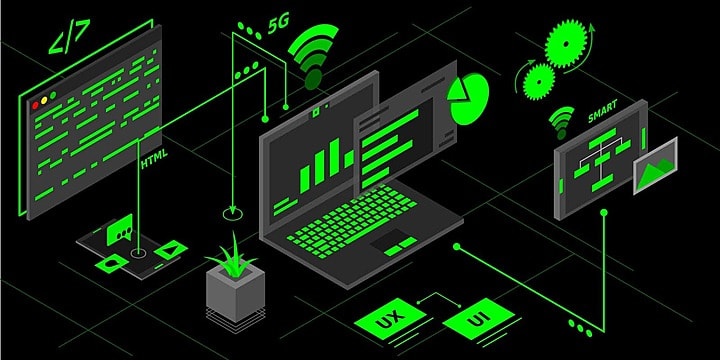
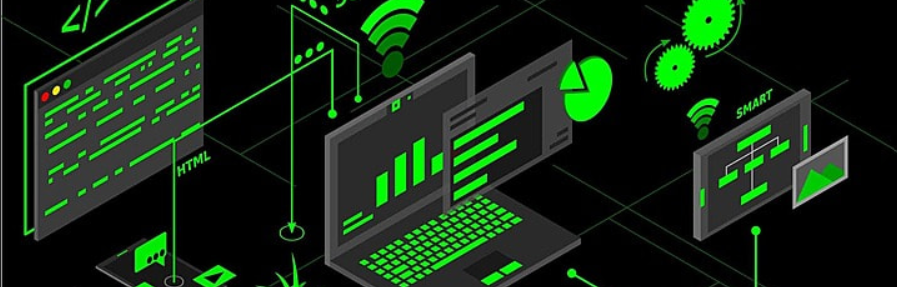
readme updated

diff --git a/README.md b/README.md
@@ -1,65 +1,126 @@
 # IoT Streaming Data Warehouse
 
-![Internet of Things illustration](docs/images/iot-streaming-data-warehouse.png)
+<p align="center">
+  <img src="https://cdn.jsdelivr.net/gh/devicons/devicon/icons/python/python-original.svg" alt="Python" height="42" />
+  <img src="https://cdn.jsdelivr.net/gh/devicons/devicon/icons/amazonwebservices/amazonwebservices-original-wordmark.svg" alt="AWS: SAM, Lambda, SQS, DynamoDB, EventBridge" height="42" />
+  <img src="https://www.vectorlogo.zone/logos/getdbt/getdbt-icon.svg" alt="dbt" height="42" />
+  <img src="https://duckdb.org/images/DuckDB-Logo.svg" alt="DuckDB and MotherDuck" height="42" />
+</p>
 
-An end-to-end reference pipeline for generating industrial IoT telemetry, validating and enriching it, maintaining an operational device-state view, and loading analytics-ready events into MotherDuck.
+<p align="center"><strong>Python</strong> &nbsp;•&nbsp; <strong>AWS SAM</strong> &nbsp;•&nbsp; <strong>Lambda</strong> &nbsp;•&nbsp; <strong>Amazon SQS</strong> &nbsp;•&nbsp; <strong>DynamoDB</strong> &nbsp;•&nbsp; <strong>MotherDuck</strong> &nbsp;•&nbsp; <strong>dbt</strong></p>
 
-The project is deliberately organized by pipeline responsibility so its components can be run locally during development and deployed independently as the AWS infrastructure is completed.
+![IoT streaming data warehouse architecture](docs/images/iot-streaming-data-warehouse.png)
+
+An event-driven pipeline that simulates industrial IoT telemetry, processes it in AWS, maintains a real-time device-state view, and creates analytics-ready Bronze, Silver, and Gold datasets in MotherDuck.
+
+## Contents
+
+- [Architecture](#architecture)
+- [Pipeline walkthrough](#pipeline-walkthrough)
+- [Repository layout](#repository-layout)
+- [Setup and deployment](#setup-and-deployment)
+- [Operating the pipeline](#operating-the-pipeline)
+- [Data model and transformations](#data-model-and-transformations)
+- [Reliability and security](#reliability-and-security)
+- [Pipeline verification](#pipeline-verification)
 
 ## Architecture
 
 ```text
-IoT simulator
-    │  validated telemetry events
-    ▼
-Telemetry SQS queue ──► Telemetry DLQ
-    │
-    ▼
-ETL consumer
-    ├──► DynamoDB: latest state per device
-    └──► Warehouse SQS queue ──► Warehouse DLQ
-                  │
-                  ▼
-          MotherDuck bronze_telemetry
-                  │
-                  ▼
-            dbt transformations
+EventBridge schedule (every minute)
+            │
+            ▼
+Simulator Lambda ──► Telemetry SQS Queue ──► Telemetry DLQ
+                            │
+                            ▼
+                       ETL Lambda
+                       ├──► DynamoDB: latest device state
+                       └──► Warehouse SQS Queue ──► Warehouse DLQ
+                                             │
+                                             ▼
+                           Local ingestion job / orchestrator
+                                             │
+                                             ▼
+                              MotherDuck Bronze table
+                                             │
+                                             ▼
+                                dbt Silver and Gold models
 ```
 
-### Data flow
+The AWS SAM stack provisions both queues and their dead-letter queues, the DynamoDB state table, an SQS-triggered ETL Lambda, and an EventBridge-scheduled simulator Lambda. The warehouse ingestion and dbt steps are run locally through the included Python orchestrator.
 
-1. The generator produces one measurement for each of ten virtual devices. Readings cover temperature, humidity, vibration, pressure, battery level, and device status.
-2. Each event is validated against the `TelemetryEvent` Pydantic schema before being sent to the telemetry queue.
-3. The ETL consumer enriches accepted events with a processing timestamp, schema and processing versions, and anomaly classification derived from configurable thresholds.
-4. The latest enriched record for each device is upserted into DynamoDB, providing a low-latency operational state store.
-5. The same enriched events are routed to the warehouse queue.
-6. The warehouse ingestion job batches messages from that queue into MotherDuck's `bronze_telemetry` table, then deletes only successfully handled SQS messages.
-7. dbt is the transformation layer for modelling warehouse data beyond bronze. The included models are the generated dbt starter examples and should be replaced with domain models as the project evolves.
+## Pipeline walkthrough
+
+### 1. Simulate IoT telemetry
+
+`src/generator/handler.py` is invoked every minute by `SimulatorFunction`. It generates 5–15 readings per run for simulated machines, each containing an event ID, device and machine IDs, UTC timestamp, temperature, humidity, vibration, pressure, battery, device status, and schema version.
+
+The function serializes each reading to JSON and sends it to `TelemetryQueue`. Sends are split into groups of at most ten messages to comply with the SQS batch limit.
+
+### 2. Buffer raw events with SQS
+
+`TelemetryQueue` decouples the producer from ETL. It uses 20-second long polling, a 60-second visibility timeout, four-day retention, and sends messages that fail three times to `TelemetryDLQ` for inspection and replay.
+
+### 3. Enrich and classify events in the ETL Lambda
+
+`ETLProcessorFunction` consumes `TelemetryQueue` in batches of ten. `src/etl/handler.py` parses decimal telemetry safely for DynamoDB, then uses `AnomalyDetector` to add `anomaly_status` and `anomaly_reasons` to every event.
+
+The detector reads `src/etl/thresholds.json` and classifies temperature, vibration, battery, and offline-device conditions as `NORMAL`, `WARNING`, or `CRITICAL`.
+
+### 4. Store current device state in DynamoDB
+
+The ETL Lambda writes each enriched event to `DeviceStateTable`. Because `device_id` is the table key, the newest reading replaces the prior state for that device, creating a low-latency operational view.
+
+SAM supplies `DYNAMODB_TABLE_NAME` from `DeviceStateTable` and grants the Lambda table-scoped `DynamoDBCrudPolicy` permissions.
+
+### 5. Route enriched data for analytics
+
+The ETL Lambda sends the enriched event to `WarehouseQueue`. This isolates real-time state updates from warehouse loading. `WarehouseQueue` uses the same visibility, retention, long-polling, and DLQ strategy as the telemetry queue.
+
+### 6. Load MotherDuck Bronze
+
+`src/warehouse/ingestion.py` connects to `md:iotstream_db`, creates `bronze_telemetry` when needed, retrieves up to ten warehouse messages, and inserts the enriched fields into Bronze. It deletes SQS messages only after their corresponding inserts finish.
+
+### 7. Transform Bronze into Silver and Gold
+
+The dbt project in `src/transformations` models the MotherDuck data. `silver_telemetry` deduplicates events by `event_id`, normalizes statuses, and casts timestamps. `gold_hourly_machine_stats` aggregates clean telemetry per machine, device, and hour.
+
+Gold outputs include average and maximum temperature and vibration, minimum battery level, anomaly counts, and total event volume for monitoring and reporting.
+
+### 8. Run the warehouse loop
+
+`src/orchestrator.py` runs the warehouse ingestion job, runs `dbt run`, then sleeps for 60 seconds before starting the next cycle. It provides a repeatable local bridge between the deployed AWS event path and MotherDuck transformations.
 
 ## Repository layout
 
 ```text
-config/                         Telemetry anomaly thresholds
-infrastructure/template.yaml    AWS SAM / CloudFormation resources
-scripts/preflight.py            AWS credential and service-access check
-src/generator/                  Telemetry simulator, schema, and producer handler
-src/etl/                        Transformation, anomaly detection, and DynamoDB state writer
-src/warehouse/ingestion.py      Warehouse-queue to MotherDuck ingestion job
-src/transformations/            dbt project and MotherDuck profile
+infrastructure/template.yaml          AWS SAM infrastructure and Lambda wiring
+scripts/preflight.py                  AWS credential and permission checks
+src/generator/handler.py              Scheduled IoT simulator Lambda
+src/etl/handler.py                    SQS-triggered enrichment and routing Lambda
+src/etl/anomaly_detector.py           Threshold-based anomaly classification
+src/etl/thresholds.json               Anomaly thresholds
+src/warehouse/ingestion.py            Warehouse Queue to MotherDuck Bronze loader
+src/orchestrator.py                   Continuous local ingestion and dbt runner
+src/transformations/models/sources.yml Bronze source declaration
+src/transformations/models/silver/    Cleaned, deduplicated telemetry model
+src/transformations/models/gold/      Hourly operational aggregates
+docs/images/                          Architecture and verification screenshots
 ```
 
-## Prerequisites
+## Setup and deployment
 
-- Python 3.10 or later
-- AWS CLI configured with credentials for the target account
-- AWS SAM CLI, for provisioning the infrastructure
-- A MotherDuck account and token for warehouse ingestion and dbt
+### Prerequisites
 
-The deployment configuration targets AWS region `ap-south-1` by default. Adjust `samconfig.toml` if another region is required.
+- Python 3.12, matching the Lambda runtime
+- AWS CLI configured for the target account
+- AWS SAM CLI
+- A MotherDuck account and access token
+- Permission to use Lambda, EventBridge, SQS, DynamoDB, IAM, and CloudFormation
 
-## Quick start
+The SAM configuration targets `ap-south-1` by default; change `samconfig.toml` for a different region.
 
-Create and activate a Python virtual environment, then install the direct project dependencies:
+### 1. Create a Python environment
 
 ```powershell
 py -m venv venv
@@ -67,94 +128,68 @@ py -m venv venv
 pip install -r requirements.txt
 ```
 
-Create local configuration from the committed template:
+### 2. Configure local variables
 
 ```powershell
 Copy-Item .env.example .env
 ```
 
-Set the following values in `.env`. Never commit this file.
-
 | Variable | Purpose |
 | --- | --- |
-| `TELEMETRY_QUEUE_URL` | SQS endpoint where the generator publishes raw telemetry and the local ETL job reads it. |
-| `WAREHOUSE_QUEUE_URL` | SQS endpoint used to buffer enriched events for warehouse loading. |
-| `DYNAMODB_TABLE_NAME` | DynamoDB table holding the latest event for each device. Defaults to `iotstream_device_state` in the ETL client. |
-| `MOTHERDUCK_TOKEN` | MotherDuck credential used by the DuckDB client and dbt profile. |
+| `TELEMETRY_QUEUE_URL` | Endpoint for the telemetry SQS queue. |
+| `WAREHOUSE_QUEUE_URL` | Endpoint for the enriched-event SQS queue. |
+| `DYNAMODB_TABLE_NAME` | Latest-state table; defaults to `iotstream_device_state`. |
+| `MOTHERDUCK_TOKEN` | Authenticates DuckDB and dbt to `md:iotstream_db`. |
 
-## Provision AWS resources
+Keep `.env` private: it is ignored by Git and should never contain committed credentials.
 
-First, verify that the active AWS credentials can access the required services:
+### 3. Verify AWS access
 
 ```powershell
 python scripts/preflight.py
 ```
 
-Build and deploy the currently defined AWS SAM stack:
+The preflight script confirms the active identity and checks access to Lambda, SQS, DynamoDB, EventBridge, and IAM.
+
+### 4. Build and deploy infrastructure
 
 ```powershell
 sam build --template-file infrastructure/template.yaml
 sam deploy --template-file infrastructure/template.yaml --config-file samconfig.toml
 ```
 
-The stack provisions two SQS queues with dedicated dead-letter queues and a provisioned DynamoDB device-state table. Obtain the output values and copy the queue URLs into `.env`:
+Copy the resulting queue URLs to `.env` for local tooling:
 
 ```powershell
 aws cloudformation describe-stacks --stack-name iotstream-stack --query "Stacks[0].Outputs" --output table
 ```
 
-### Important deployment status
+After deployment, EventBridge invokes the simulator every minute and the ETL Lambda consumes telemetry automatically.
 
-`infrastructure/template.yaml` currently provisions the queues and DynamoDB table only. The Python handlers are implemented, but Lambda functions, the SQS event-source mapping, EventBridge scheduling, Lambda environment variables, and IAM roles have not yet been declared in the SAM template. Until those resources are added, run the generator, ETL consumer, and warehouse ingestion commands manually as described below.
+## Operating the pipeline
 
-## Run the pipeline locally
-
-With `.env` configured to point to the deployed queues, execute the stages in order:
+### Start the local warehouse and dbt loop
 
 ```powershell
-# Generate and publish a batch of raw telemetry.
+python src/orchestrator.py
+```
+
+Each cycle loads available warehouse messages into MotherDuck, runs dbt transformations, and waits one minute. Stop it with `Ctrl+C`.
+
+### Run stages manually
+
+```powershell
+# Produce a telemetry batch.
 python src/generator/handler.py
 
-# Read, enrich, persist, and route raw telemetry.
+# Enrich telemetry, update DynamoDB, and route to the warehouse queue.
 python src/etl/handler.py
 
-# Load routed events into MotherDuck bronze_telemetry.
+# Load up to ten events into MotherDuck Bronze.
 python src/warehouse/ingestion.py
 ```
 
-For a simulation without AWS publication, temporarily omit `TELEMETRY_QUEUE_URL`; the generator prints its validated SQS payload instead.
-
-The local ETL and warehouse scripts are queue-draining utilities: they poll up to ten messages, process them, and delete those messages after successful handling. In production, Lambda event-source mappings should own acknowledgement and retry behavior.
-
-## Anomaly rules
-
-Thresholds reside in [config/thresholds.yaml](config/thresholds.yaml). The simulator injects an anomaly into roughly 10% of generated readings, while the ETL layer independently classifies events as `NORMAL`, `WARNING`, or `CRITICAL`.
-
-| Condition | Generated/derived result |
-| --- | --- |
-| Temperature at or above warning/critical threshold | `WARNING_TEMPERATURE` or `CRITICAL_TEMPERATURE` |
-| Vibration at or above critical threshold | `CRITICAL_VIBRATION` |
-| Battery at or below critical threshold | `CRITICAL_BATTERY` |
-| Device status is `OFFLINE` | `DEVICE_OFFLINE` and critical status |
-
-Update the YAML configuration to tune values without changing application logic.
-
-## Data contracts and storage
-
-Raw telemetry is validated by `src/generator/schema.py`. Key fields include a unique `event_id`, device and machine identifiers, a UTC event timestamp, numeric sensor metrics, battery percentage, and an enumerated device status.
-
-The ETL stage preserves these fields and adds:
-
-- `processing_timestamp`
-- `anomaly_status` and `anomaly_reasons`
-- `schema_version`
-- `processing_version`
-
-DynamoDB is keyed by `device_id`; each write replaces that device's prior state. MotherDuck stores the analytical history in `iotstream_db.bronze_telemetry`.
-
-## dbt transformations
-
-The dbt project is located in `src/transformations` and is configured in `profiles.yml` to use `md:iotstream_db`.
+### Run dbt directly
 
 ```powershell
 dbt debug --project-dir src/transformations --profiles-dir src/transformations
@@ -162,45 +197,58 @@ dbt run --project-dir src/transformations --profiles-dir src/transformations
 dbt test --project-dir src/transformations --profiles-dir src/transformations
 ```
 
-The current `models/example` directory contains dbt's starter models. Replace these with models that declare `bronze_telemetry` as a source and build curated silver/gold datasets for monitoring, maintenance, and reporting.
+The model tests cover unique and non-null event IDs, valid `ONLINE`/`OFFLINE` device statuses, and non-null battery values.
 
-## Reliability and security notes
+## Data model and transformations
 
-- Both SQS queues use 20-second long polling, a 60-second visibility timeout, four-day retention, and a DLQ after three receives.
-- DLQ retention is fourteen days, allowing failed messages to be inspected and replayed.
-- `.env`, private keys, local DuckDB files, dbt build output, and SAM build artifacts are excluded from Git.
-- Use least-privilege IAM roles when adding Lambda resources: producer access should be limited to sending telemetry, ETL access to consuming/sending queue messages plus state-table writes, and warehouse access to its queue.
-- Rotate MotherDuck and AWS credentials through your organization’s secret-management process; never place their values in source code or documentation.
+The simulator emits `event_id`, `device_id`, `machine_id`, `event_timestamp`, `temperature`, `humidity`, `vibration`, `pressure`, `battery`, `device_status`, and `schema_version`. The ETL process adds `anomaly_status` and `anomaly_reasons`; the ingestion job ensures a `processing_timestamp` exists in Bronze.
 
-## Next steps
+| Signal | Rule | Result |
+| --- | --- | --- |
+| Temperature | At or above warning/critical threshold | `WARNING_TEMPERATURE` or `CRITICAL_TEMPERATURE` |
+| Vibration | At or above critical threshold | `CRITICAL_VIBRATION` |
+| Battery | At or below critical threshold | `CRITICAL_BATTERY` |
+| Device status | `OFFLINE` | `DEVICE_OFFLINE` and `CRITICAL` status |
 
-1. Define the generator and ETL Lambda functions, IAM roles, SQS event mapping, and EventBridge schedule in the SAM template.
-2. Add automated tests for schema validation, anomaly boundaries, transformer output, and failure/retry behavior.
-3. Replace the example dbt models with bronze-to-silver-to-gold transformations and data-quality tests.
-4. Add observability for queue depth, DLQ messages, Lambda failures, ingestion latency, and anomaly rates.
+Tune the limits in `src/etl/thresholds.json` without changing the detector code.
 
-## Pipeline Verification
+| Layer | Model/table | Responsibility |
+| --- | --- | --- |
+| Bronze | `bronze_telemetry` | Ingested enriched events with minimal transformation. |
+| Silver | `silver_telemetry` | Deduplicated events with normalized statuses and typed timestamps. |
+| Gold | `gold_hourly_machine_stats` | Hourly device and machine operational aggregates. |
+
+## Reliability and security
+
+- Both queues use long polling, a 60-second visibility timeout, four-day retention, and a DLQ after three receives; DLQs retain messages for fourteen days.
+- SQS isolates producer, ETL, and warehouse workloads so each stage can retry independently.
+- SAM policy templates grant each Lambda only the queue and DynamoDB access it needs.
+- DynamoDB uses 5 RCUs and 5 WCUs for predictable small-scale operational capacity.
+- Store AWS credentials and the MotherDuck token in `.env` or a managed secrets service, never in source control.
+- Silver-layer deduplication by `event_id` protects analytics from the at-least-once delivery semantics of SQS.
+
+## Pipeline verification
 
 ### AWS SQS message flow
 
 ![AWS SQS dashboard showing active message flow](docs/images/aws-sqs-dashboard.png)
 
-The SQS dashboard shows messages moving through the telemetry and warehouse queues, confirming that the cloud-side producer and routing stages are actively exchanging events.
+The SQS dashboard shows telemetry and warehouse messages flowing through the cloud queues. It verifies that scheduled simulation, queue buffering, and ETL routing are operating autonomously.
 
 ### DynamoDB real-time device state
 
 ![DynamoDB table showing real-time device state updates](docs/images/dynamodb-real-time-state.png)
 
-The DynamoDB table contains the latest state for each device, proving that the ETL processor persists enriched operational data as telemetry arrives.
+The DynamoDB table shows current records for simulated devices. This confirms that the ETL Lambda converts incoming telemetry into an up-to-date operational state view.
 
 ### Local orchestrator and dbt execution
 
 ![Local terminal logs showing the Python orchestrator and dbt execution](docs/images/orchestrator-terminal-logs.png)
 
-The terminal output records the Python orchestration stages and dbt run, connecting the queue-driven ingestion process to warehouse transformation execution.
+The terminal log records the local ingestion loop followed by dbt execution. It demonstrates the handoff from AWS-delivered events to repeatable warehouse transformations.
 
 ### MotherDuck Bronze and Gold layers
 
 ![MotherDuck UI showing populated Bronze and aggregated Gold layer tables](docs/images/motherduck-sql-queries.png)
 
-The MotherDuck results show populated Bronze telemetry alongside aggregated Gold tables, verifying that raw cloud events complete the autonomous flow through dbt into analytics-ready datasets.
+The MotherDuck UI shows populated Bronze data and aggregated Gold results. Together, these tables provide the final evidence that raw telemetry reaches an analytics-ready warehouse layer.
